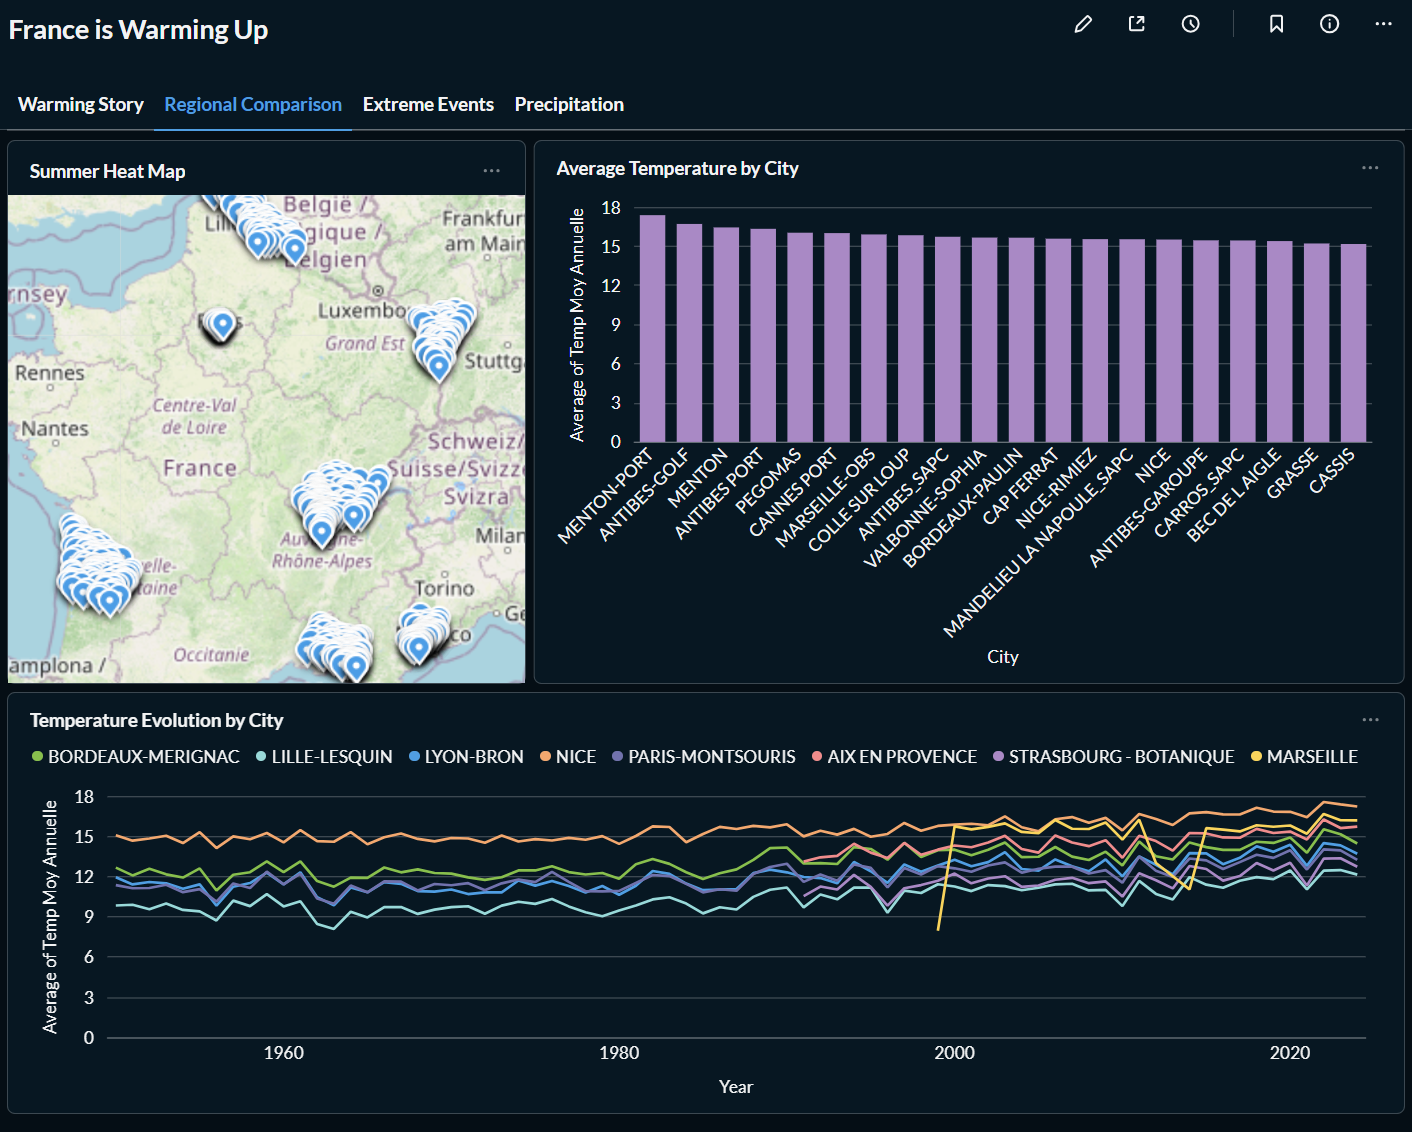
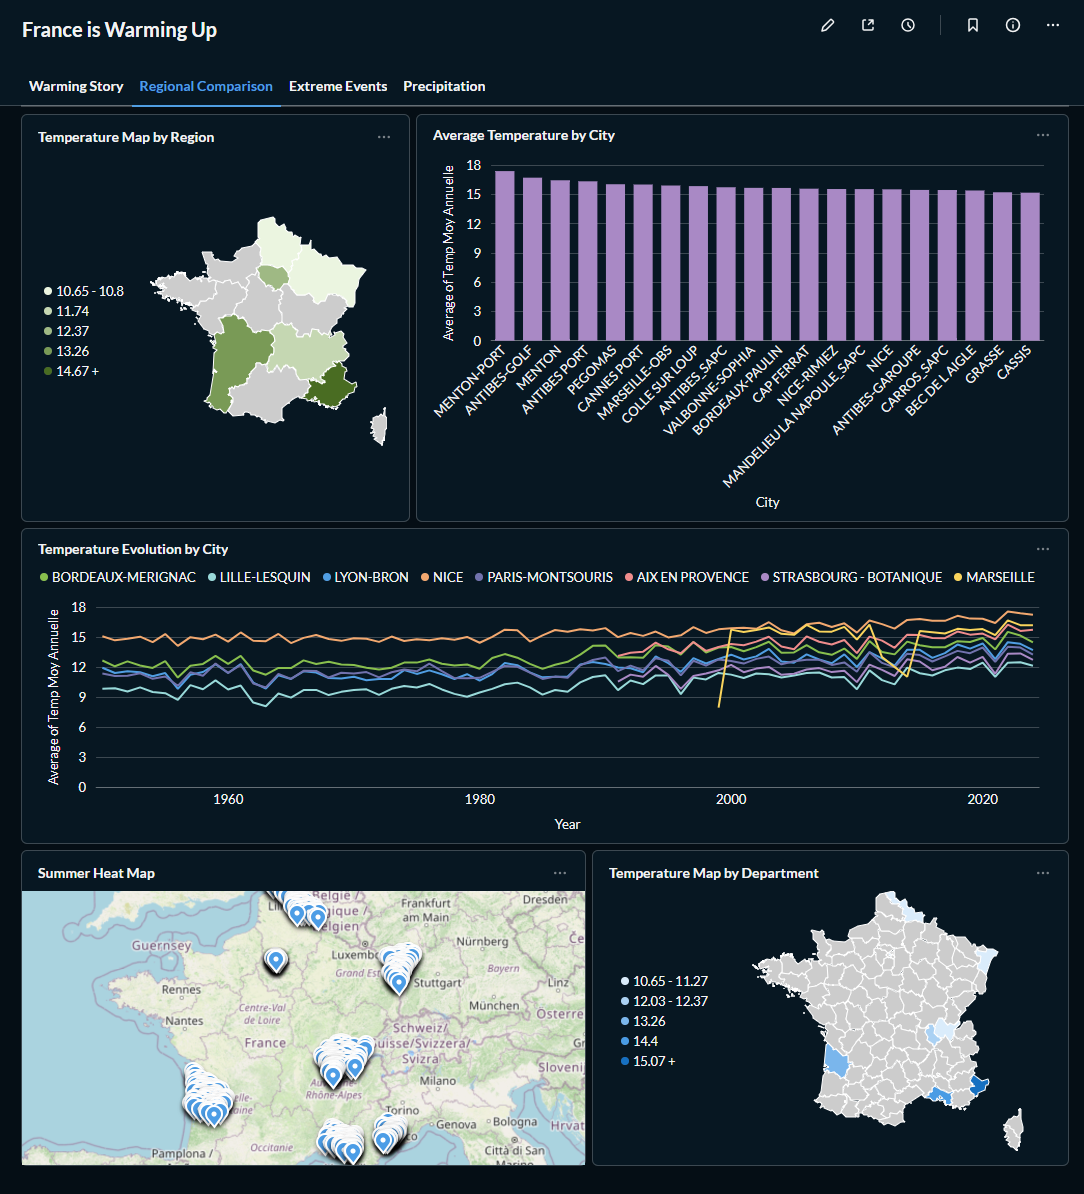
feat: add GeoJSON choropleth maps by region and department

diff --git a/README.md b/README.md
@@ -81,7 +81,7 @@ meteo.data.gouv.fr
                 │
                 ▼
         Metabase Dashboard
-        (4 tabs, 13 visualizations, interactive Year filter)
+        (4 tabs, 15 visualizations, interactive Year filter)
 ```
 
 ---
@@ -255,6 +255,8 @@ All visualizations apply an **altitude < 500m filter** to exclude high-altitude 
 - Summer Heat Map (pin map, months 6–8)
 - Average Temperature by City (bar chart, top 20)
 - Temperature Evolution by City (multi-series line chart)
+- Temperature Map by Department (choropleth map) — uses GeoJSON
+- Temperature Map by Region (choropleth map) — uses GeoJSON
 
 **Tab 3 — Extreme Events**
 - Frost Days per Year (line chart) — uses `duree_gel`
@@ -271,6 +273,19 @@ All visualizations apply an **altitude < 500m filter** to exclude high-altitude 
 **Interactive filter:** Year selector connected to all tabs simultaneously.
 
 ---
+
+### GeoJSON Maps
+
+Two custom GeoJSON maps are configured in Metabase for choropleth visualizations:
+
+| Map | URL | Field |
+|-----|-----|-------|
+| France Régions | https://raw.githubusercontent.com/gregoiredavid/france-geojson/master/regions.geojson | code |
+| France Départements | https://raw.githubusercontent.com/gregoiredavid/france-geojson/master/departements.geojson | code |
+
+Two SQL views map our data to these regions:
+- `temp_par_region` — average temperature per region (6 regions covered)
+- `temp_par_departement` — average temperature per department (8 departments covered)
 
 ##  Agile Methodology
 